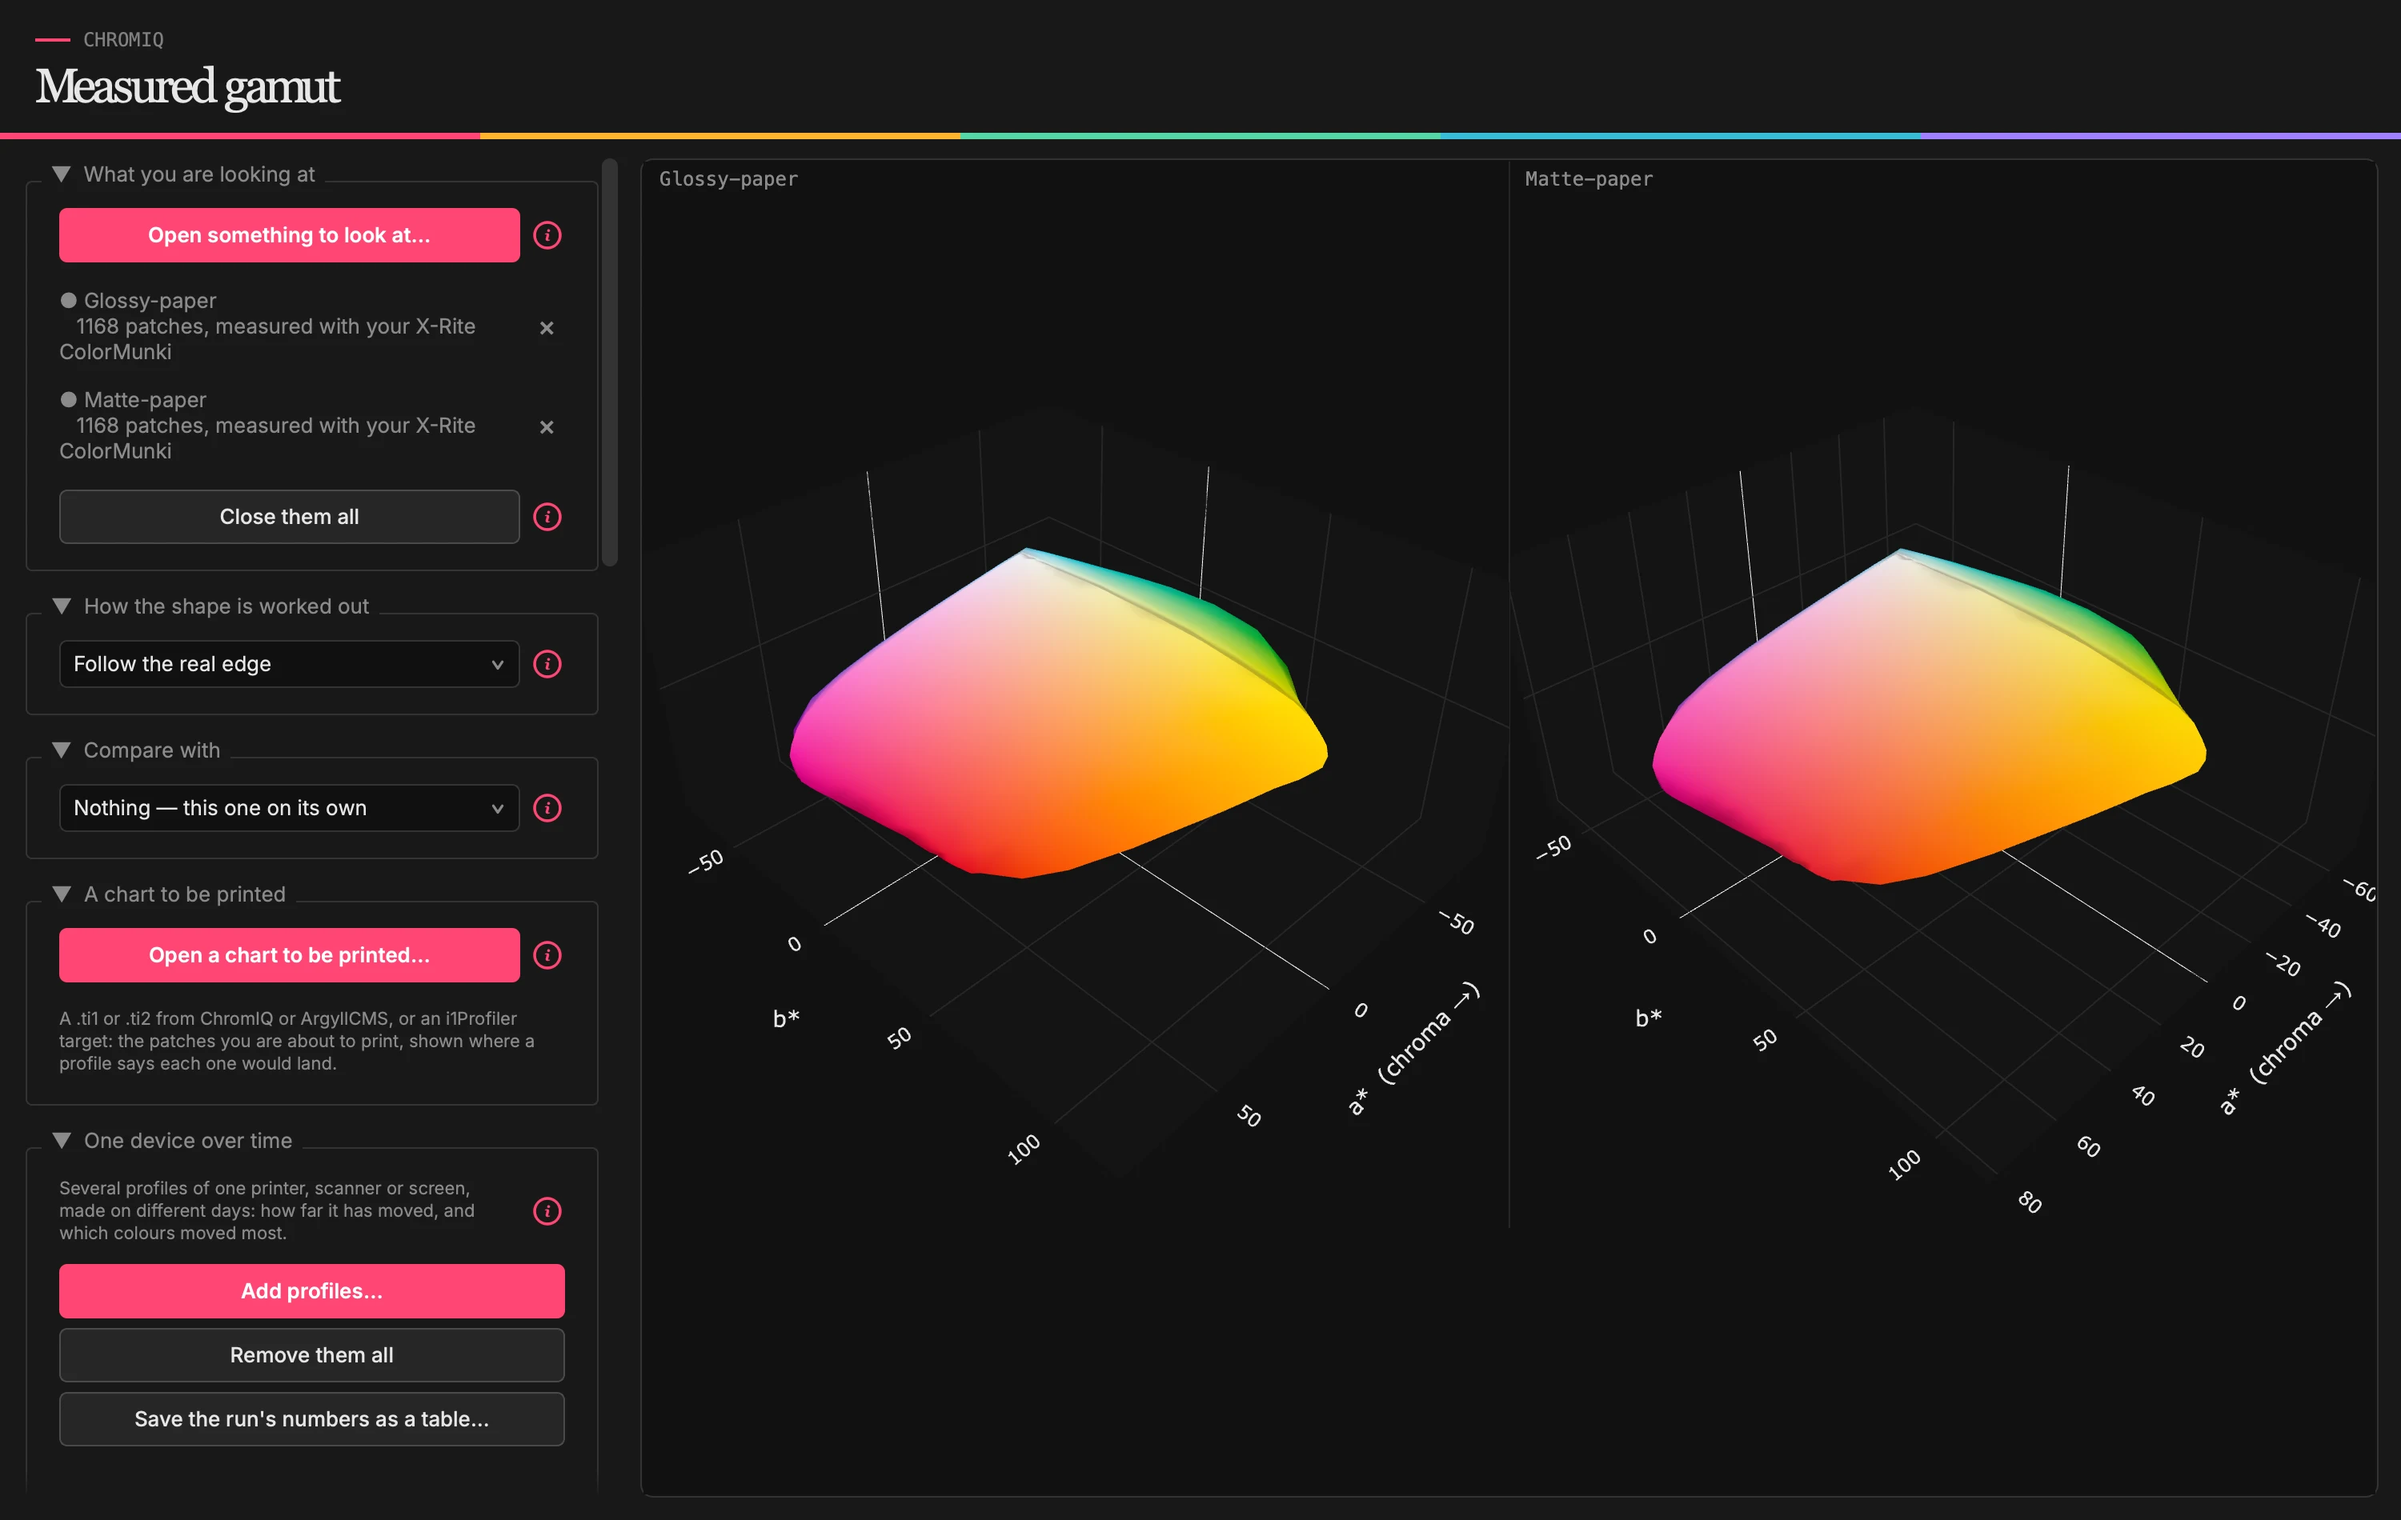
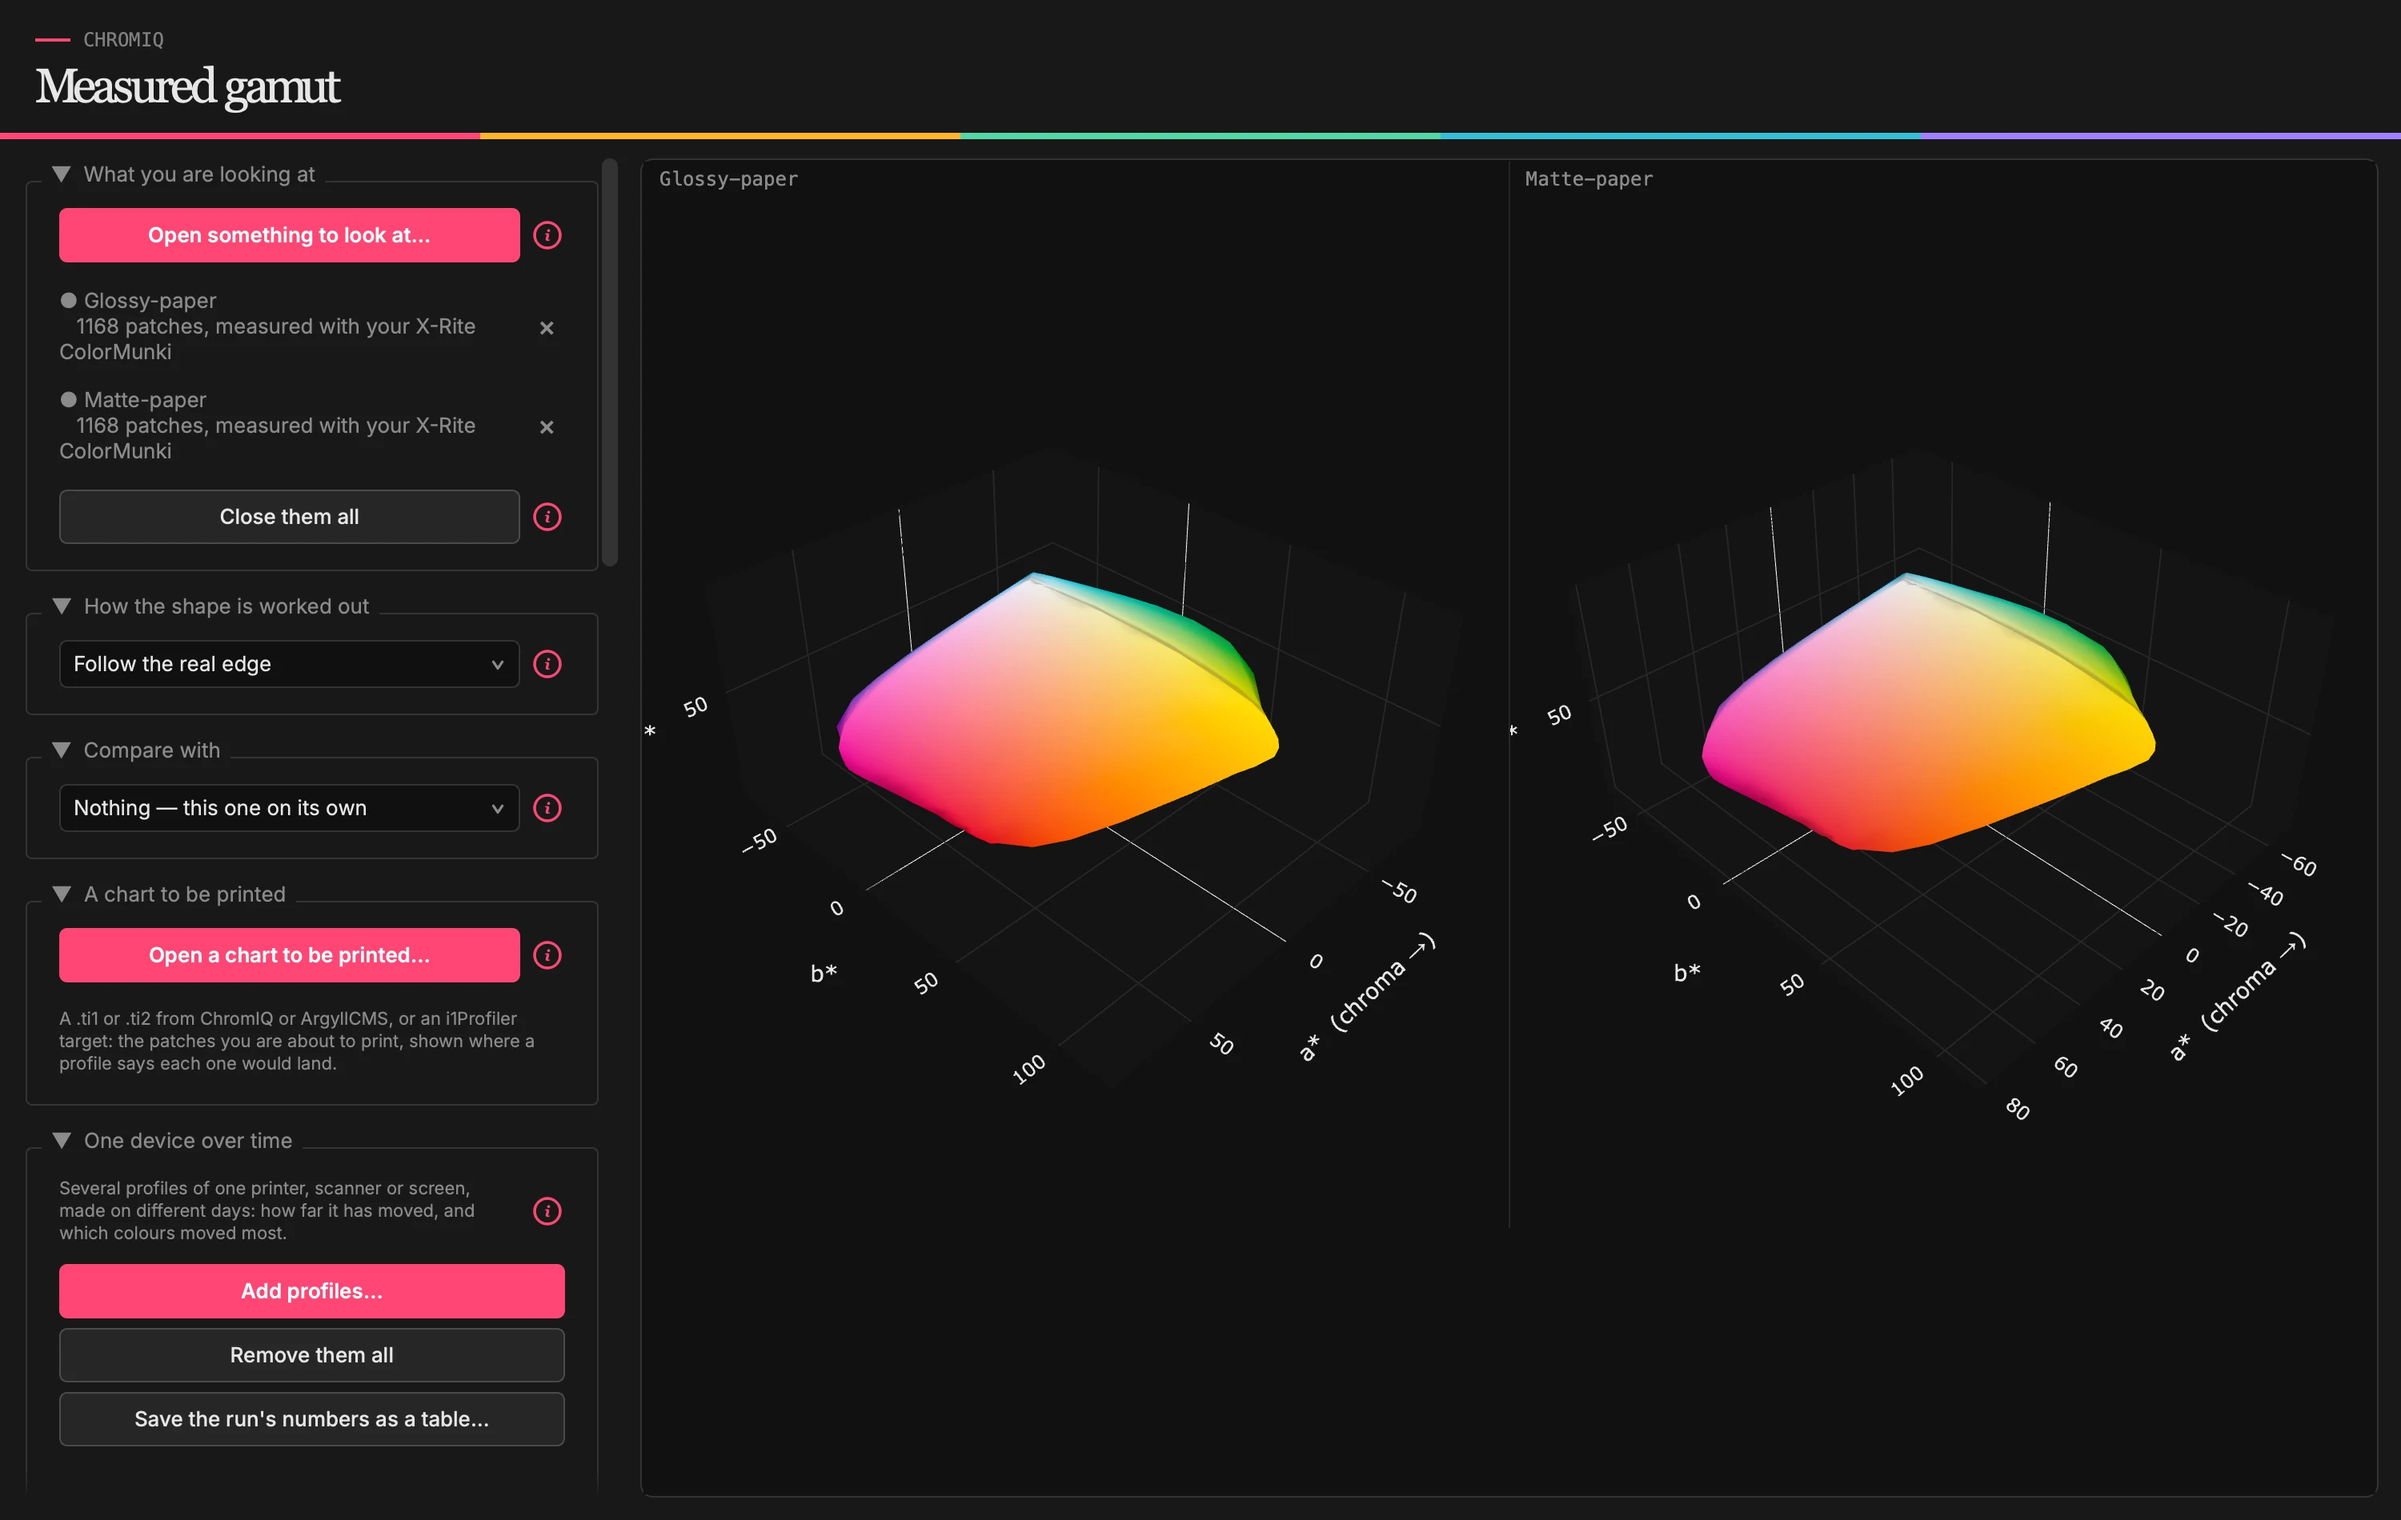
v2.45.0 — the arrangement is a choice, and every shape fits its room
Screenshots remade: four changed, and the two-room one is the proof. Before,
the L* axis and its tick were off the view entirely; now nearly all of it is
there, because the picture is finally allowed to fit itself to the pane it is
drawn in.

Gates: 914 passed; 911 passed + 3 skipped.

diff --git a/python/version.py b/python/version.py
@@ -1,5 +1,5 @@
 """One place the version and the name are written down."""
-__version__ = "2.44.0"
+__version__ = "2.45.0"
 APP_NAME = "ChromIQ Gamut Viewer"
 
 #: What this is built on. MIT permits redistributing a modified copy under

diff --git a/CHANGELOG.md b/CHANGELOG.md
@@ -1,5 +1,57 @@
 # Changelog
 
+## v2.45.0
+
+### 🪟 Two rooms: side by side, or one above the other — your choice
+
+Two rooms can now be arranged either way, with a chooser that appears beside
+**Both rooms point the same way** as soon as you have two shapes to arrange.
+
+**Side by side** keeps both shapes at the same height, which is what your eye
+needs to compare how far each one reaches: two things at the same height are
+easy to measure against each other, and the same two stacked are not. **One
+above the other** gives each room the whole width instead — the one to choose
+in a tall narrow window, or on a phone, and it lines the two shapes up along
+the lightness axis, so it answers "which of these gets darker" more directly
+than "which of these is wider".
+
+It is remembered between sessions, and it travels into a saved page, so
+whoever you send it to opens it arranged the way you left it.
+
+### 🔭 Every shape now fits the room it is drawn in
+
+Two papers side by side in a narrow window came out with both shapes cut
+straight through the side walls of their rooms. Measured, counting the
+vividly coloured pixels sitting in each room's outermost column, with the
+turning paused and both rooms pinned to the same four viewpoints:
+
+| window | each room | shape through the wall |
+|---|---|---|
+| 1500 | ~541 px | none |
+| 1200 | ~391 px | none |
+| 1000 | ~291 px | 170 and 108 pixels |
+| 900 | ~241 px | 233 and 201 |
+| 800 | ~210 px | 270 and 234 |
+
+**The picture already knew how to fit itself and was never allowed to.** Every
+page this application writes carried a flag saying its view had already been
+placed — true of the window's own view, which carries your camera forward from
+one drawing to the next, and wrongly true of every page you saved. So a file
+opened on a phone, in a window whose shape nobody could have known when it was
+written, never fitted itself to it.
+
+Now it does, in the window and in every page you save: a narrow room shows a
+**smaller** shape rather than a cut one, and nothing you have turned to is
+touched — a view you dragged to is yours, and stays exactly where you left it
+through every rebuild.
+
+### 🔍 A control off the BOTTOM of a saved page is a fault too
+
+Kept from the release before this one and now measured on more pages: both
+page checks ask whether a control can be **reached at all**, rather than only
+whether it is off the left or the right.
+
+
 ## v2.44.0
 
 ### 🪟 Two rooms on a narrow window stopped cutting the shapes in half
